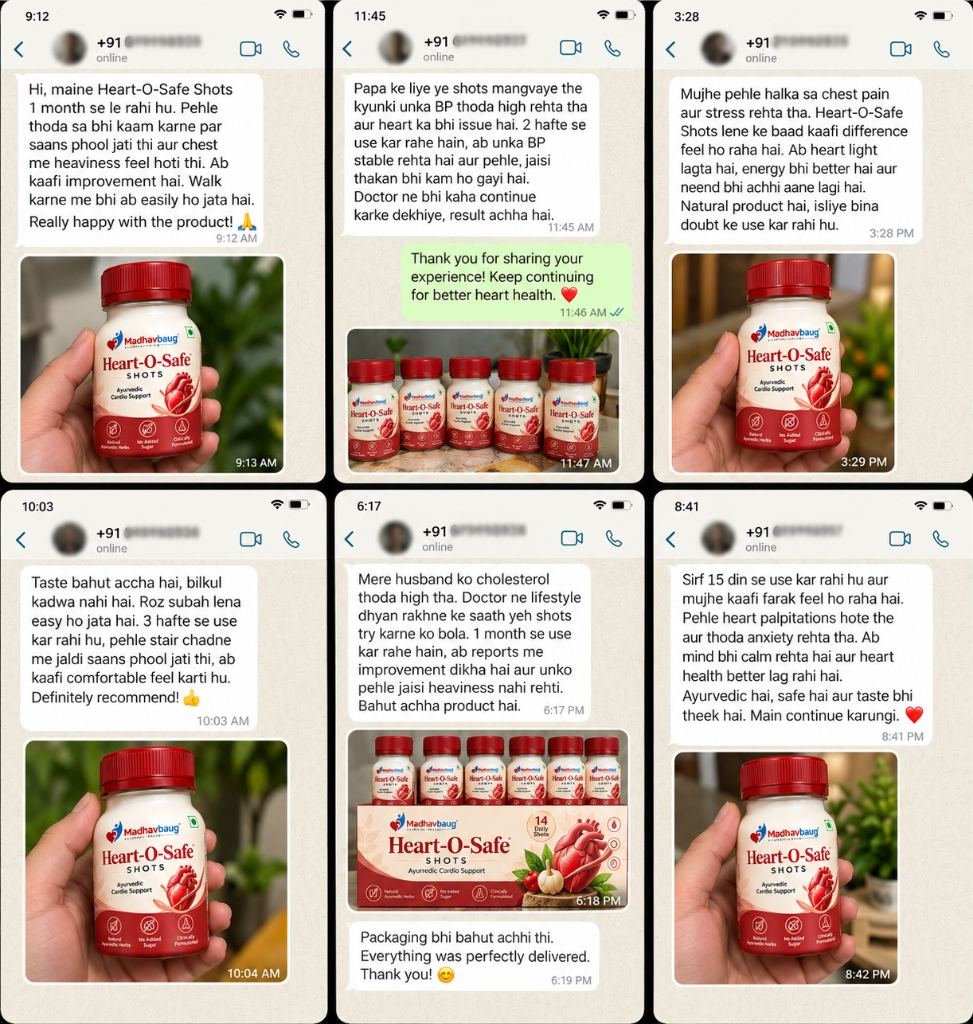
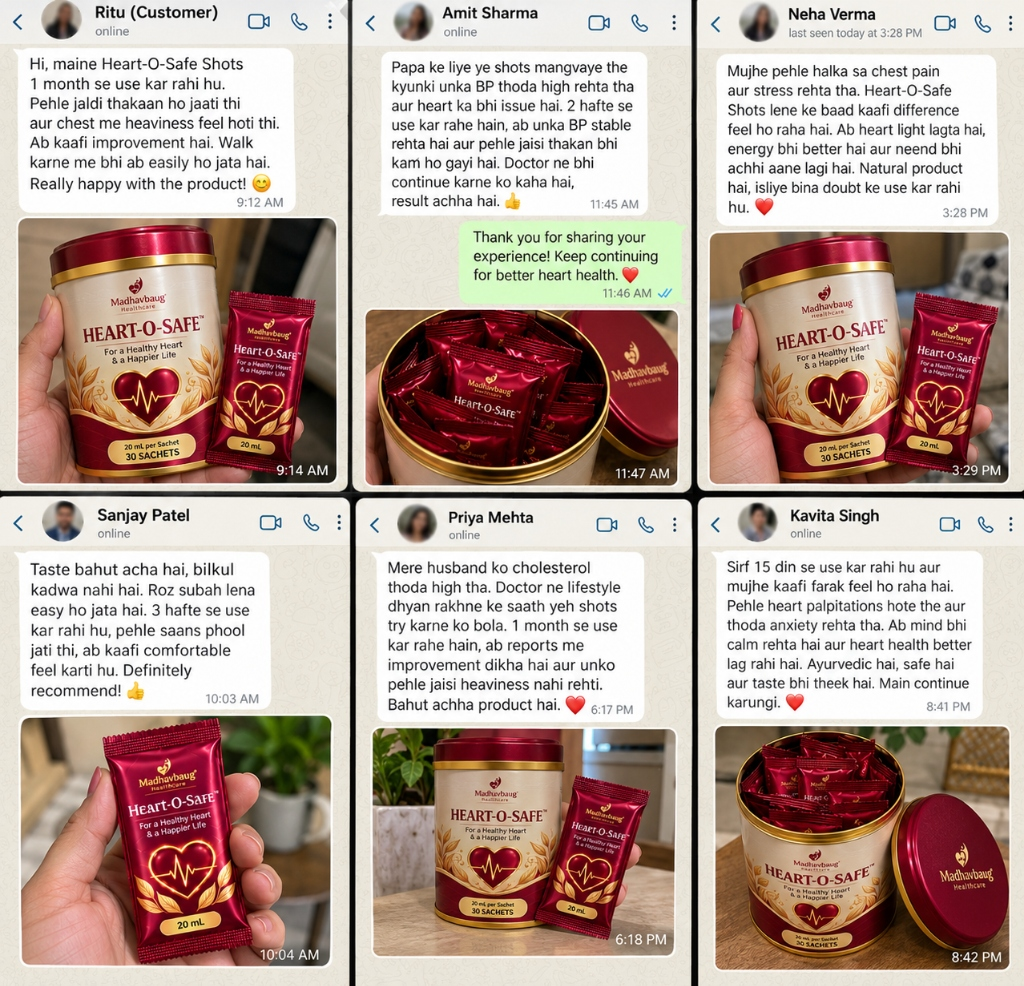
added

diff --git a/index.html b/index.html
@@ -3,8 +3,8 @@
 <head>
   <meta charset="UTF-8">
   <meta name="viewport" content="width=device-width, initial-scale=1.0">
-  <title>Madhavbaug Heart-O-Safe SHOTS - Pack of 30 Shots for 30 Days | Ayurvedic Cardio & Cholesterol Support</title>
-  <meta name="description" content="Madhavbaug Heart-O-Safe SHOTS: Pack of 30 Shots for 30 Days - Ready-to-Drink Ayurvedic Shots for Cardio Health, Arterial Plaque, High BP & Cholesterol Support. Clinically Formulated with Arjuna, Guggulu, Fermented Black Garlic & Pushkarmool. 100% Cash On Delivery Available.">
+  <title>Madhavbaug Heart-O-Safe SHOTS - 20ml Daily Sachets | Ayurvedic Cardio & Cholesterol Support</title>
+  <meta name="description" content="Madhavbaug Heart-O-Safe SHOTS: Daily 20ml Sachets (1 Shot = 20ml Sachet) - Ready-to-Drink Ayurvedic Botanical Sachet for Cardio Health, Arterial Plaque, High BP & Cholesterol Support. Available in 30 Days (₹1,199) and 60 Days (₹1,999). 100% Cash On Delivery Available.">
   <link rel="stylesheet" href="assets/css/style.css">
 </head>
 <body>
@@ -17,7 +17,7 @@
       <div class="announcement-inner">
         <span class="announcement-pill">🚚 100% Cash On Delivery (COD)</span>
         <span>पूरे भारत में <strong>Free Doorstep Delivery</strong> उपलब्ध • पहले पार्सल देखें, बाद में पैसे दें!</span>
-        <span class="announcement-highlight">⚡ आज के ऑर्डर पर स्पेशल 38% तक की छूट</span>
+        <span class="announcement-highlight">⚡ आज के ऑर्डर पर स्पेशल 50% तक की छूट</span>
       </div>
     </div>
   </div>
@@ -34,7 +34,7 @@
         <div class="brand-badge-divider"></div>
         <div class="brand-product-title">
           <span class="brand-product-name">Heart-O-Safe SHOTS</span>
-          <span class="brand-product-sub">Pack of 30 Shots for 30 Days</span>
+          <span class="brand-product-sub">Daily 20ml Sachets • 30 / 60 Days</span>
         </div>
       </div>
 
@@ -79,10 +79,10 @@
               </svg>
               100% Ayurvedic Cardiotonic
             </span>
-            <span class="gallery-shots-badge">Pack of 30 Shots for 30 Days</span>
+            <span class="gallery-shots-badge">1 Shot = 20ml Sachet</span>
 
             <div class="hero-single-image-box">
-              <img src="assets/images/heart_o_safe_hero.jpg" alt="Madhavbaug Heart-O-Safe Shot Single Bottle Close-up" loading="eager">
+              <img src="assets/images/heart_o_safe_hero.jpg" alt="Madhavbaug Heart-O-Safe Shot 20ml Sachet" loading="eager">
             </div>
           </div>
         </div>
@@ -94,11 +94,11 @@
             <span class="rating-text">4.9 / 5.0</span>
             <span class="rating-reviews" onclick="document.getElementById('reviews').scrollIntoView({behavior:'smooth'})">(2,850+ सत्यापित समीक्षाएं)</span>
             <span class="product-sugarfree-badge">✓ 100% Herbal</span>
-            <span class="product-sugarfree-badge" style="background: var(--madhav-blue-subtle); color: var(--madhav-blue-dark); border-color: rgba(2, 132, 199, 0.3);">Pack of 30 Shots for 30 Days</span>
+            <span class="product-sugarfree-badge" style="background: var(--madhav-blue-subtle); color: var(--madhav-blue-dark); border-color: rgba(2, 132, 199, 0.3);">Daily 20ml Sachet Shots</span>
           </div>
 
           <h1 class="product-main-title">Madhavbaug Heart-O-Safe SHOTS</h1>
-          <p class="product-subheadline">Ayurvedic Cardio & Arterial Health Support | Pack of 30 Ready-to-Drink Daily Botanical Shots for 30 Days</p>
+          <p class="product-subheadline">Ayurvedic Cardio & Arterial Health Support | Ready-to-Drink 20ml Daily Botanical Sachet Shots</p>
 
           <!-- Normal Cardio Target Highlight Card -->
           <div class="hero-glucose-highlight">
@@ -111,48 +111,39 @@
           </div>
 
           <p class="product-supporting-line">
-            माधवबाग के 18+ वर्षों के कार्डियोलॉजी अनुसंधान का प्रामाणिक निष्कर्ष - <strong>Heart-O-Safe Shots</strong>। धमनियों के स्वास्थ्य और हृदय की पम्पिंग क्षमता को मजबूत रखने के लिए - रोजाना सिर्फ 1 रेडी-टू-ड्रिंक 30ml शॉट (Pack of 30 Shots for 30 Days)।
+            माधवबाग के 18+ वर्षों के कार्डियोलॉजी अनुसंधान का प्रामाणिक निष्कर्ष - <strong>Heart-O-Safe Shots</strong>। धमनियों के स्वास्थ्य और हृदय की पम्पिंग क्षमता को मजबूत रखने के लिए - रोजाना सिर्फ 1 रेडी-टू-ड्रिंक 20ml का सैशे शॉट (1 Shot = 20ml Sachet)।
           </p>
 
           <!-- Pricing Block -->
           <div class="pricing-block">
-            <span class="current-price" id="currentPrice">₹1,599</span>
-            <span class="original-price" id="originalPrice">₹2,598</span>
-            <span class="discount-tag" id="discountTag">38% की सबसे बड़ी छूट</span>
+            <span class="current-price" id="currentPrice">₹1,999</span>
+            <span class="original-price" id="originalPrice">₹3,998</span>
+            <span class="discount-tag" id="discountTag">50% की सबसे बड़ी छूट</span>
           </div>
           <span class="tax-note">कर सहित (All Taxes Included) • <strong>Cash On Delivery पर मुफ्त डिलीवरी उपलब्ध (Free Shipping)</strong></span>
 
-          <!-- Bundle Selector (1 Box / 2 Boxes / 4 Boxes) -->
+          <!-- Bundle Selector (1 Box / 2 Boxes) -->
           <div class="bundle-selector">
             <div class="bundle-header-row">
               <span>पैक का चुनाव करें (Select Your Pack):</span>
               <span style="color: var(--cod-green-dark); font-size: 0.85rem; font-weight: 800;">✓ Cash On Delivery Available</span>
             </div>
             <div class="bundle-options-grid">
-              <!-- 1 Pack -->
+              <!-- 1 Pack (30 Days) -->
               <div class="bundle-card" data-index="0">
                 <div class="bundle-title">1 Pack (30 Days)</div>
-                <div class="bundle-shots-count">Pack of 30 Shots for 30 Days</div>
-                <div class="bundle-price">₹899</div>
-                <div class="bundle-save-tag">बचत ₹400 (31% Off)</div>
+                <div class="bundle-shots-count">30 Sachets (20ml Each) • 30 Days</div>
+                <div class="bundle-price">₹1,199</div>
+                <div class="bundle-save-tag">बचत ₹800 (40% Off)</div>
               </div>
 
-              <!-- 2 Packs (Recommended) -->
+              <!-- 2 Packs (60 Days - Recommended) -->
               <div class="bundle-card active" data-index="1">
                 <span class="bundle-badge">🔥 सर्वाधिक लोकप्रिय</span>
                 <div class="bundle-title">2 Packs (60 Days)</div>
-                <div class="bundle-shots-count">2x Pack of 30 Shots for 30 Days</div>
-                <div class="bundle-price">₹1,599</div>
-                <div class="bundle-save-tag">बचत ₹999 (38% Off)</div>
-              </div>
-
-              <!-- 4 Packs -->
-              <div class="bundle-card" data-index="2">
-                <span class="bundle-badge gold">महा बचत पैक</span>
-                <div class="bundle-title">4 Packs (120 Days)</div>
-                <div class="bundle-shots-count">4x Pack of 30 Shots for 30 Days</div>
-                <div class="bundle-price">₹2,899</div>
-                <div class="bundle-save-tag">बचत ₹2,297 (44% Off)</div>
+                <div class="bundle-shots-count">60 Sachets (20ml Each) • 60 Days Course</div>
+                <div class="bundle-price">₹1,999</div>
+                <div class="bundle-save-tag">बचत ₹1,999 (50% Off)</div>
               </div>
             </div>
           </div>
@@ -305,7 +296,7 @@
             <div class="comparison-header-icon">🫀</div>
             <div>
               <h3 class="comparison-card-title">Madhavbaug Heart-O-Safe SHOTS</h3>
-              <span class="comparison-card-subtitle">Pack of 30 Shots for 30 Days • शुद्ध आयुर्वेदिक कार्डियोटोनिक</span>
+              <span class="comparison-card-subtitle">Daily 20ml Sachets (1 Shot = 20ml Sachet) • शुद्ध आयुर्वेदिक कार्डियोटोनिक</span>
             </div>
           </div>
           <ul class="comparison-list">
@@ -319,7 +310,7 @@
             </li>
             <li class="comparison-list-item">
               <span class="comparison-item-icon">✓</span>
-              <span><strong>100% रेडी-टू-ड्रिंक:</strong> कोई काढ़ा उबालने या चूर्ण की झंझट नहीं - सुबह 10 सेकंड में 1 शॉट पिएं।</span>
+              <span><strong>100% रेडी-टू-ड्रिंक 20ml सैशे:</strong> कोई काढ़ा उबालने या चूर्ण की झंझट नहीं - सुबह 10 सेकंड में 1 सैशे पिएं।</span>
             </li>
             <li class="comparison-list-item">
               <span class="comparison-item-icon">✓</span>
@@ -368,7 +359,7 @@
       <div class="section-header">
         <span class="section-badge-center">The 30-Day Impact</span>
         <h2 class="section-title">30 दिनों में आपके शरीर में होने वाले सकारात्मक बदलाव</h2>
-        <p class="section-subtitle">जानिए कैसे Heart-O-Safe Shots (Pack of 30 Shots for 30 Days) का नियमित सेवन आपके रक्तसंचार और हृदय को नया जीवन देता है:</p>
+        <p class="section-subtitle">जानिए कैसे Heart-O-Safe Shots (20ml Daily Sachet Shots) का नियमित सेवन आपके रक्तसंचार और हृदय को नया जीवन देता है:</p>
       </div>
 
       <div class="journey-timeline">
@@ -582,21 +573,21 @@
           <span class="step-number">1</span>
           <div class="step-icon-big">🌅</div>
           <h3 class="step-title">सुबह खाली पेट</h3>
-          <p class="step-desc">सुबह उठकर 1 गिलास गुनगुना पानी पिएं और Heart-O-Safe Shots का 1 शॉट निकालें।</p>
+          <p class="step-desc">सुबह उठकर 1 गिलास गुनगुना पानी पिएं और Heart-O-Safe Shots का 1 सैशे (20ml) निकालें।</p>
         </div>
 
         <div class="step-card">
           <span class="step-number">2</span>
-          <div class="step-icon-big">🍾</div>
-          <h3 class="step-title">अच्छी तरह हिलाएं (Shake Well)</h3>
-          <p class="step-desc">सक्रिय वानस्पतिक तत्व नीचे बैठ सकते हैं, इसलिए पीने से पहले 4-5 सेकंड अच्छी तरह शेक करें।</p>
+          <div class="step-icon-big">✂</div>
+          <h3 class="step-title">अच्छी तरह हिलाएं व खोलें (Shake & Tear)</h3>
+          <p class="step-desc">सक्रिय वानस्पतिक तत्व नीचे बैठ सकते हैं, इसलिए 4-5 सेकंड शेक करके 20ml सैशे को टीयर करें।</p>
         </div>
 
         <div class="step-card">
           <span class="step-number">3</span>
           <div class="step-icon-big">🥤</div>
           <h3 class="step-title">सीधे पिएं (Drink Directly)</h3>
-          <p class="step-desc">30ml शॉट सीधे पिएं। अगले 30 मिनट तक चाय या भारी नाश्ता न करें ताकि 100% अवशोषण हो सके।</p>
+          <p class="step-desc">20ml सैशे सीधे पिएं। अगले 30 मिनट तक चाय या भारी नाश्ता न करें ताकि 100% अवशोषण हो सके।</p>
         </div>
       </div>
     </div>
@@ -636,11 +627,11 @@
 
         <div class="faq-item">
           <button class="faq-question-btn">
-            <span>3. एक पैक में कितने शॉट्स होते हैं और यह कितने दिन चलेगा?</span>
+            <span>3. एक पैक में कितने सैशे/शॉट्स होते हैं और यह कितने दिन चलेगा?</span>
             <span class="faq-arrow">▼</span>
           </button>
           <div class="faq-answer-pane">
-            <p>एक पैक में 30 डेली रेडी-टू-ड्रिंक शॉट्स (Pack of 30 Shots for 30 Days) होते हैं, जो पूरे 30 दिनों (1 महीने) का कोर्स है। धमनियों के दीर्घकालिक स्वास्थ्य के लिए 2 से 4 पैक (2 से 4 महीने का कोर्स) सबसे अधिक अनुशंसित है।</p>
+            <p>1 पैक में 30 डेली रेडी-टू-ड्रिंक 20ml सैशे (30 Days Pack - ₹1,199) होते हैं। सम्पूर्ण व दीर्घकालिक हृदय सुरक्षा और ब्लॉकेज सफाई के लिए 2 पैक (60 Days Course - 60 Sachets of 20ml - ₹1,999) सबसे अधिक लोकप्रिय व अनुशंसित है।</p>
           </div>
         </div>
 
@@ -706,7 +697,7 @@
         <div class="footer-brand">
           <h4>Madhavbaug Heart-O-Safe SHOTS</h4>
           <p>
-            Madhavbaug Healthcare: भारत का अग्रणी नॉन-इनवेसिव कार्डियोलॉजी संस्थान। धमनियों के स्वास्थ्य और हृदय की पम्पिंग क्षमता को बनाए रखने के लिए Pack of 30 Shots for 30 Days (Ready-to-Drink Ayurvedic Cardio Shots)।
+            Madhavbaug Healthcare: भारत का अग्रणी नॉन-इनवेसिव कार्डियोलॉजी संस्थान। धमनियों के स्वास्थ्य और हृदय की पम्पिंग क्षमता को बनाए रखने के लिए Ready-to-Drink 20ml Daily Sachets (1 Shot = 20ml Sachet)।
           </p>
           <div style="margin-top: 14px; color: #E5DAC9; font-size: 0.82rem;">
             📞 डॉक्टर हेल्पलाइन: 1800-267-1234 | 💬 WhatsApp: +91 93214 56789
@@ -749,9 +740,9 @@
     <div class="sticky-product-info">
       <img src="assets/images/heart_o_safe_hero.jpg" alt="Heart-O-Safe Shots" class="sticky-thumb">
       <div class="sticky-text">
-        <span class="sticky-name" id="stickyPackName">2 Packs (60 Days Course - 2x Pack of 30 Shots for 30 Days)</span>
+        <span class="sticky-name" id="stickyPackName">2 Packs (60 Days Course - 60 Sachets of 20ml)</span>
         <div class="sticky-price-row">
-          <span class="sticky-price" id="stickyPrice">₹1,599</span>
+          <span class="sticky-price" id="stickyPrice">₹1,999</span>
           <span class="sticky-cod-pill">🚚 FREE COD</span>
         </div>
       </div>
@@ -780,8 +771,8 @@
         </div>
 
         <form id="modalCodForm">
-          <input type="hidden" id="modalSelectedPack" name="package" value="2 Packs (60 Days Course - 2x Pack of 30 Shots for 30 Days)">
-          <input type="hidden" id="modalPrice" name="price" value="₹1,599">
+          <input type="hidden" id="modalSelectedPack" name="package" value="2 Packs (60 Days Course - 60 Sachets of 20ml)">
+          <input type="hidden" id="modalPrice" name="price" value="₹1,999">
           
           <!-- Name Field -->
           <div class="form-group" style="margin-bottom: 12px;">
@@ -854,11 +845,11 @@
         </div>
         <div style="display: flex; justify-content: space-between; margin-bottom: 6px;">
           <span style="color: var(--text-subtle);">चुना गया पैक:</span>
-          <strong id="thankYouPack">Pack of 30 Shots for 30 Days</strong>
+          <strong id="thankYouPack">2 Packs (60 Days Course - 60 Sachets of 20ml)</strong>
         </div>
         <div style="display: flex; justify-content: space-between; margin-bottom: 6px;">
           <span style="color: var(--text-subtle);">देय राशि (COD):</span>
-          <strong id="thankYouAmount" style="color: var(--cod-green-dark); font-size: 1.05rem;">₹1,599</strong>
+          <strong id="thankYouAmount" style="color: var(--cod-green-dark); font-size: 1.05rem;">₹1,999</strong>
         </div>
         <div style="display: flex; justify-content: space-between;">
           <span style="color: var(--text-subtle);">सत्यापन मोबाइल:</span>

diff --git a/assets/js/main.js b/assets/js/main.js
@@ -33,34 +33,25 @@ document.addEventListener('DOMContentLoaded', () => {
   const bundleData = [
     {
       index: 0,
-      title: '1 Pack (Pack of 30 Shots for 30 Days)',
+      title: '1 Pack (30 Days - 30 Sachets of 20ml)',
       shots: 30,
-      price: 899,
-      original: 1299,
-      discount: '31% की छूट',
-      desc: '1 Month Starter: Pack of 30 Shots for 30 Days'
+      price: 1199,
+      original: 1999,
+      discount: '40% की छूट',
+      desc: '1 Month Starter: 30 Daily Sachets (20ml Each) for 30 Days'
     },
     {
       index: 1,
-      title: '2 Packs (60 Days Course - 2x Pack of 30 Shots for 30 Days)',
+      title: '2 Packs (60 Days Course - 60 Sachets of 20ml)',
       shots: 60,
-      price: 1599,
-      original: 2598,
-      discount: '38% की सबसे बड़ी छूट',
+      price: 1999,
+      original: 3998,
+      discount: '50% की सबसे बड़ी छूट',
       desc: 'Most Popular: 60 Days Complete Arterial & Cholesterol Cleanse'
-    },
-    {
-      index: 2,
-      title: '4 Packs (120 Days Course - 4x Pack of 30 Shots for 30 Days)',
-      shots: 120,
-      price: 2899,
-      original: 5196,
-      discount: '44% की महा बचत',
-      desc: 'Best Value: 120 Days Plaque Dissolution & Cardiovascular Stamina'
     }
   ];
 
-  let selectedBundleIndex = 1; // Default: 2 Boxes (Most Popular)
+  let selectedBundleIndex = 1; // Default: 2 Packs (60 Days Course - Most Popular)
 
   function updateBundleState(index) {
     selectedBundleIndex = index;

diff --git a/assets/css/style.css b/assets/css/style.css
@@ -476,6 +476,20 @@ input, select, textarea {
   overflow: hidden;
   box-shadow: var(--shadow-md);
 }
+.hero-single-image-box {
+  width: 100%;
+  display: flex;
+  align-items: center;
+  justify-content: center;
+  background: #FFFFFF;
+  overflow: hidden;
+}
+.hero-single-image-box img {
+  width: 100%;
+  height: auto;
+  display: block;
+  object-fit: cover;
+}
 .gallery-badge {
   position: absolute;
   top: 16px;
@@ -738,8 +752,8 @@ input, select, textarea {
 }
 .bundle-options-grid {
   display: grid;
-  grid-template-columns: repeat(3, 1fr);
-  gap: 12px;
+  grid-template-columns: repeat(2, 1fr);
+  gap: 14px;
 }
 .bundle-card {
   position: relative;
